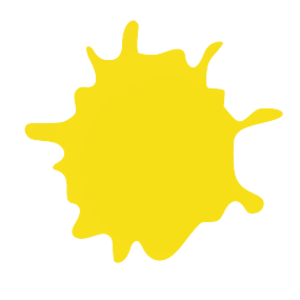
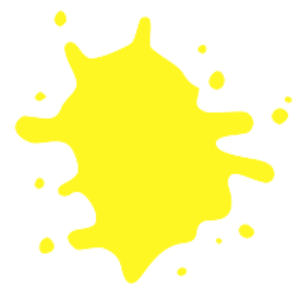
addition of new paint splatters

diff --git a/colors.md b/colors.md
@@ -1,0 +1,40 @@
+
+
+color-1 = #2F62AE - blue
+color-2 = #E48CF5 - pink
+color-3 = #BC7FF5 - light purple
+color-4 = #957FF5 - dark purple
+color-5 = #fff724 - yellow
+color-6 = #00ED64 - green
+color-7 = #87E9FF - turquoise
+color-8 = #FFFFFF -off-white
+
+
+html - off-white
+css - blue
+git - light purple
+scss - pink
+javascript - yellow
+react - turquoise 
+node - light purple
+openai - off-white
+python - blue
+django - #8998F5
+java - dark purple
+spring boot - green
+mongodb - green
+firebase - pink
+aws - yellow
+sql - dark purple
+
+
+
+paint-splashes to keep -
+
+html (rotate)
+css (flip 180)
+react (flip 180)
+python (flip 180)
+
+
+x 4
